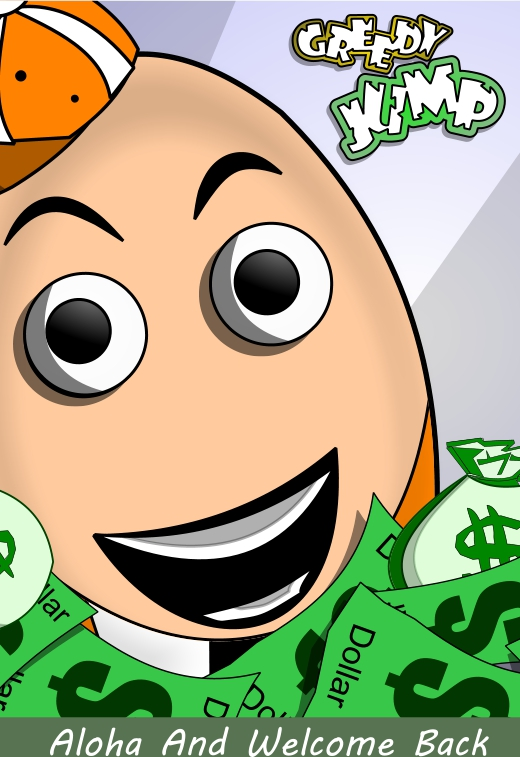
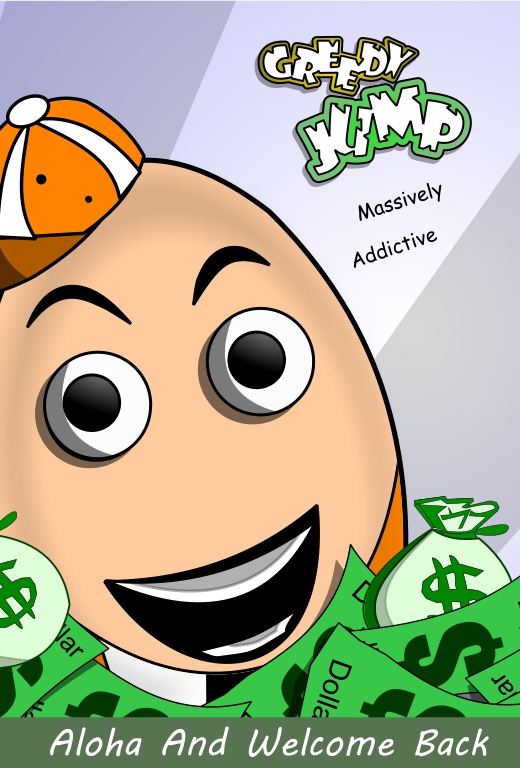
f t y

diff --git a/greedyjump/index.htm b/greedyjump/index.htm
@@ -5,8 +5,7 @@ layout: versionify
 <html xmlns="http://www.w3.org/1999/xhtml" xml:lang="en" lang="en">
 <head>
 <meta http-equiv="X-UA-Compatible" content="IE=7"/>
-<meta name="XAR jpegs" content="1"/>
-<meta name="XAR pngs" content="8"/>
+<meta name="XAR pngs" content="12"/>
 <script type="text/javascript" src="index_htm_files/roe.js"></script>
 <link rel="stylesheet" type="text/css" href="index_htm_files/default.css" />
 
@@ -21,11 +20,10 @@ layout: versionify
 <!--  Delete  clip in following line, copy height to greedyjump-head.html -->
 
 
-
 <!--[if IE]><div class="xr_ap" id="xr_xr" style="width: 955px; height: 1695px; top:0px; left:50%; margin-left: -478px; clip: rect(0px 955px 1695px 0px);"><![endif]-->
 <!--[if !IE]>--><div class="xr_ap" id="xr_xr" style="width: 955px; height: 1695px; top:0px; left:50%; margin-left: -478px; clip: rect(0px, 955px, 1695px, 0px);"><!--<![endif]-->
 <script type="text/javascript">var xr_xr=document.getElementById("xr_xr")</script>
- <img class="xr_ap" src="index_htm_files/0.jpg" alt="" style="left: -2px; top: -3px; width: 962px; height: 1700px;"/>
+ <img class="xr_ap" src="index_htm_files/0.png" alt="" style="left: -2px; top: -3px; width: 962px; height: 1700px;"/>
  <div style="left: 25px; position: absolute; font-size: 13px; font-family: Arial; text-align: left; color: #768870; top: 1687px;">
   <div style="">
    <div class="xr_tl" style="left: 0px; top: -13px;">&#169; 2011 TiTi Technologies Pty Ltd. All names are trademarks or registered trademarks of TiTi Technologies Ltd or their respective owners. All rights reserved.</div>
@@ -195,19 +193,19 @@ layout: versionify
    <div class="xr_tl" style="left: 0px; top: -13px;">Credits: RVK Technical Director &#38; VRB Art Director</div>
   </div>
  </div>
- <div style="left: 818px; position: absolute; font-size: 13px; font-family: Comic Sans MS; text-align: left; color: #4C4C4C; top: 33px;">
+ <div style="left: 686px; position: absolute; font-size: 13px; font-family: Comic Sans MS; text-align: left; color: #4C4C4C; top: 24px;">
   <div style="">
    <div class="xr_tl" style="left: 0px; top: -15px;"><a onmousemove="xr_mo(this,0)" onclick="return(xr_nn());" href="http://groups.google.com/group/greedyjump?pli=1" >Forum</a></div>
   </div>
  </div>
- <img class="xr_ap" src="index_htm_files/0.png" alt="" id="iPhoneFree" style="left: 596px; top: 388px; width: 84px; height: 49px;"/>
- <img class="xr_ap" src="index_htm_files/1.png" alt="" id="iPhoneBuy" style="left: 608px; top: 486px; width: 84px; height: 50px;"/>
- <img class="xr_ap" src="index_htm_files/2.png" alt="" id="iPhoneVideo" style="left: 540px; top: 533px; width: 85px; height: 49px;"/>
- <img class="xr_ap" src="index_htm_files/3.png" alt="" id="iPhoneSS" style="left: 475px; top: 501px; width: 84px; height: 50px;"/>
- <img class="xr_ap" src="index_htm_files/4.png" alt="" id="iPadFree" style="left: 845px; top: 390px; width: 84px; height: 49px;"/>
- <img class="xr_ap" src="index_htm_files/5.png" alt="" id="iPadBuy" style="left: 846px; top: 474px; width: 83px; height: 50px;"/>
- <img class="xr_ap" src="index_htm_files/6.png" alt="" id="iPadVideo" style="left: 787px; top: 532px; width: 84px; height: 48px;"/>
- <img class="xr_ap" src="index_htm_files/7.png" alt="" id="iPadSS" style="left: 716px; top: 495px; width: 83px; height: 50px;"/>
+ <img class="xr_ap" src="index_htm_files/1.png" alt="" id="iPhoneFree" style="left: 596px; top: 388px; width: 84px; height: 49px;"/>
+ <img class="xr_ap" src="index_htm_files/2.png" alt="" id="iPhoneBuy" style="left: 608px; top: 486px; width: 84px; height: 50px;"/>
+ <img class="xr_ap" src="index_htm_files/3.png" alt="" id="iPhoneVideo" style="left: 540px; top: 533px; width: 85px; height: 49px;"/>
+ <img class="xr_ap" src="index_htm_files/4.png" alt="" id="iPhoneSS" style="left: 475px; top: 501px; width: 84px; height: 50px;"/>
+ <img class="xr_ap" src="index_htm_files/5.png" alt="" id="iPadFree" style="left: 845px; top: 390px; width: 84px; height: 49px;"/>
+ <img class="xr_ap" src="index_htm_files/6.png" alt="" id="iPadBuy" style="left: 846px; top: 474px; width: 83px; height: 50px;"/>
+ <img class="xr_ap" src="index_htm_files/7.png" alt="" id="iPadVideo" style="left: 787px; top: 532px; width: 84px; height: 48px;"/>
+ <img class="xr_ap" src="index_htm_files/8.png" alt="" id="iPadSS" style="left: 716px; top: 495px; width: 83px; height: 50px;"/>
  <div id="Copy" style="left: 889px; position: absolute; font-size: 13px; font-family: Arial; text-align: left; top: 1663px;">
   <div style="">
    <div class="xr_tl" style="left: 0px; top: -13px;">(<span style=""><a onmousemove="xr_mo(this,0)" onclick="return(xr_nn());" href="#" >Copy</a></span        >)</div>
@@ -218,19 +216,27 @@ layout: versionify
    <div class="xr_tl" style="left: 0px; top: -17px;">Mail Us</div>
   </div>
  </div>
- <div style="left: 882px; position: absolute; font-size: 13px; font-family: Comic Sans MS; text-align: left; color: #4C4C4C; top: 34px;">
+ <div style="left: 750px; position: absolute; font-size: 13px; font-family: Comic Sans MS; text-align: left; color: #4C4C4C; top: 24px;">
   <div style="">
    <div class="xr_tl" style="left: 0px; top: -15px;"><a onmousemove="xr_mo(this,0)" onclick="return(xr_nn());" href="#MailUS" >Contact Us</a></div>
   </div>
  </div>
+ <a href="http://twitter.com/#!/greedyjump" target="_blank"  onclick="return(xr_nn());">
+ <img class="xr_ap" src="index_htm_files/9.png" alt="" style="left: 879px; top: 7px; width: 26px; height: 27px; " onmousemove="xr_mo(this,0)"/>
+ </a>
+ <a href="http://www.facebook.com/greedyjump" target="_blank"  onclick="return(xr_nn());">
+ <img class="xr_ap" src="index_htm_files/10.png" alt="" style="left: 839px; top: 7px; width: 26px; height: 27px; " onmousemove="xr_mo(this,0)"/>
+ </a>
+ <a href="http://www.youtube.com/user/tititechnologies" target="_blank"  onclick="return(xr_nn());">
+ <img class="xr_ap" src="index_htm_files/11.png" alt="" style="left: 919px; top: 8px; width: 27px; height: 26px; " onmousemove="xr_mo(this,0)"/>
+ </a>
  <div id="xr_xo0" class="xr_ap" style="left: 0; top: 0; width: 955px; height: 100px; visibility: hidden;">
   <a href="" onclick="return(false);">
   </a>
  </div>
- 
-       {% include greedyjump-items.html %}
 
- 
+         {% include greedyjump-items.html %}
+
  <div id="xr_xd0"></div>
 </div>
 <!--[if lt IE 7]><script type="text/javascript" src="index_htm_files/png.js"></script><![endif]-->

diff --git a/greedyjump/index.html b/greedyjump/index.html
@@ -5,8 +5,7 @@ layout: versionify
 <html xmlns="http://www.w3.org/1999/xhtml" xml:lang="en" lang="en">
 <head>
 <meta http-equiv="X-UA-Compatible" content="IE=7"/>
-<meta name="XAR jpegs" content="1"/>
-<meta name="XAR pngs" content="8"/>
+<meta name="XAR pngs" content="12"/>
 <script type="text/javascript" src="index_htm_files/roe.js"></script>
 <link rel="stylesheet" type="text/css" href="index_htm_files/default.css" />
 
@@ -21,11 +20,10 @@ layout: versionify
 <!--  Delete  clip in following line, copy height to greedyjump-head.html -->
 
 
-
 <!--[if IE]><div class="xr_ap" id="xr_xr" style="width: 955px; height: 1695px; top:0px; left:50%; margin-left: -478px; clip: rect(0px 955px 1695px 0px);"><![endif]-->
 <!--[if !IE]>--><div class="xr_ap" id="xr_xr" style="width: 955px; height: 1695px; top:0px; left:50%; margin-left: -478px; clip: rect(0px, 955px, 1695px, 0px);"><!--<![endif]-->
 <script type="text/javascript">var xr_xr=document.getElementById("xr_xr")</script>
- <img class="xr_ap" src="index_htm_files/0.jpg" alt="" style="left: -2px; top: -3px; width: 962px; height: 1700px;"/>
+ <img class="xr_ap" src="index_htm_files/0.png" alt="" style="left: -2px; top: -3px; width: 962px; height: 1700px;"/>
  <div style="left: 25px; position: absolute; font-size: 13px; font-family: Arial; text-align: left; color: #768870; top: 1687px;">
   <div style="">
    <div class="xr_tl" style="left: 0px; top: -13px;">&#169; 2011 TiTi Technologies Pty Ltd. All names are trademarks or registered trademarks of TiTi Technologies Ltd or their respective owners. All rights reserved.</div>
@@ -195,19 +193,19 @@ layout: versionify
    <div class="xr_tl" style="left: 0px; top: -13px;">Credits: RVK Technical Director &#38; VRB Art Director</div>
   </div>
  </div>
- <div style="left: 818px; position: absolute; font-size: 13px; font-family: Comic Sans MS; text-align: left; color: #4C4C4C; top: 33px;">
+ <div style="left: 686px; position: absolute; font-size: 13px; font-family: Comic Sans MS; text-align: left; color: #4C4C4C; top: 24px;">
   <div style="">
    <div class="xr_tl" style="left: 0px; top: -15px;"><a onmousemove="xr_mo(this,0)" onclick="return(xr_nn());" href="http://groups.google.com/group/greedyjump?pli=1" >Forum</a></div>
   </div>
  </div>
- <img class="xr_ap" src="index_htm_files/0.png" alt="" id="iPhoneFree" style="left: 596px; top: 388px; width: 84px; height: 49px;"/>
- <img class="xr_ap" src="index_htm_files/1.png" alt="" id="iPhoneBuy" style="left: 608px; top: 486px; width: 84px; height: 50px;"/>
- <img class="xr_ap" src="index_htm_files/2.png" alt="" id="iPhoneVideo" style="left: 540px; top: 533px; width: 85px; height: 49px;"/>
- <img class="xr_ap" src="index_htm_files/3.png" alt="" id="iPhoneSS" style="left: 475px; top: 501px; width: 84px; height: 50px;"/>
- <img class="xr_ap" src="index_htm_files/4.png" alt="" id="iPadFree" style="left: 845px; top: 390px; width: 84px; height: 49px;"/>
- <img class="xr_ap" src="index_htm_files/5.png" alt="" id="iPadBuy" style="left: 846px; top: 474px; width: 83px; height: 50px;"/>
- <img class="xr_ap" src="index_htm_files/6.png" alt="" id="iPadVideo" style="left: 787px; top: 532px; width: 84px; height: 48px;"/>
- <img class="xr_ap" src="index_htm_files/7.png" alt="" id="iPadSS" style="left: 716px; top: 495px; width: 83px; height: 50px;"/>
+ <img class="xr_ap" src="index_htm_files/1.png" alt="" id="iPhoneFree" style="left: 596px; top: 388px; width: 84px; height: 49px;"/>
+ <img class="xr_ap" src="index_htm_files/2.png" alt="" id="iPhoneBuy" style="left: 608px; top: 486px; width: 84px; height: 50px;"/>
+ <img class="xr_ap" src="index_htm_files/3.png" alt="" id="iPhoneVideo" style="left: 540px; top: 533px; width: 85px; height: 49px;"/>
+ <img class="xr_ap" src="index_htm_files/4.png" alt="" id="iPhoneSS" style="left: 475px; top: 501px; width: 84px; height: 50px;"/>
+ <img class="xr_ap" src="index_htm_files/5.png" alt="" id="iPadFree" style="left: 845px; top: 390px; width: 84px; height: 49px;"/>
+ <img class="xr_ap" src="index_htm_files/6.png" alt="" id="iPadBuy" style="left: 846px; top: 474px; width: 83px; height: 50px;"/>
+ <img class="xr_ap" src="index_htm_files/7.png" alt="" id="iPadVideo" style="left: 787px; top: 532px; width: 84px; height: 48px;"/>
+ <img class="xr_ap" src="index_htm_files/8.png" alt="" id="iPadSS" style="left: 716px; top: 495px; width: 83px; height: 50px;"/>
  <div id="Copy" style="left: 889px; position: absolute; font-size: 13px; font-family: Arial; text-align: left; top: 1663px;">
   <div style="">
    <div class="xr_tl" style="left: 0px; top: -13px;">(<span style=""><a onmousemove="xr_mo(this,0)" onclick="return(xr_nn());" href="#" >Copy</a></span        >)</div>
@@ -218,19 +216,27 @@ layout: versionify
    <div class="xr_tl" style="left: 0px; top: -17px;">Mail Us</div>
   </div>
  </div>
- <div style="left: 882px; position: absolute; font-size: 13px; font-family: Comic Sans MS; text-align: left; color: #4C4C4C; top: 34px;">
+ <div style="left: 750px; position: absolute; font-size: 13px; font-family: Comic Sans MS; text-align: left; color: #4C4C4C; top: 24px;">
   <div style="">
    <div class="xr_tl" style="left: 0px; top: -15px;"><a onmousemove="xr_mo(this,0)" onclick="return(xr_nn());" href="#MailUS" >Contact Us</a></div>
   </div>
  </div>
+ <a href="http://twitter.com/#!/greedyjump" target="_blank"  onclick="return(xr_nn());">
+ <img class="xr_ap" src="index_htm_files/9.png" alt="" style="left: 879px; top: 7px; width: 26px; height: 27px; " onmousemove="xr_mo(this,0)"/>
+ </a>
+ <a href="http://www.facebook.com/greedyjump" target="_blank"  onclick="return(xr_nn());">
+ <img class="xr_ap" src="index_htm_files/10.png" alt="" style="left: 839px; top: 7px; width: 26px; height: 27px; " onmousemove="xr_mo(this,0)"/>
+ </a>
+ <a href="http://www.youtube.com/user/tititechnologies" target="_blank"  onclick="return(xr_nn());">
+ <img class="xr_ap" src="index_htm_files/11.png" alt="" style="left: 919px; top: 8px; width: 27px; height: 26px; " onmousemove="xr_mo(this,0)"/>
+ </a>
  <div id="xr_xo0" class="xr_ap" style="left: 0; top: 0; width: 955px; height: 100px; visibility: hidden;">
   <a href="" onclick="return(false);">
   </a>
  </div>
- 
-       {% include greedyjump-items.html %}
 
- 
+         {% include greedyjump-items.html %}
+
  <div id="xr_xd0"></div>
 </div>
 <!--[if lt IE 7]><script type="text/javascript" src="index_htm_files/png.js"></script><![endif]-->

diff --git a/_layouts/versionify.html b/_layouts/versionify.html
@@ -1,5 +1,5 @@
 
-{% assign version = 3 %}
+{% assign version = 4 %}
 
 {% capture jpgWithVersion %}.jpg?{{ version }}'{% endcapture %}
 {% capture pngWithVersion %}.png?{{ version }}'{% endcapture %}
